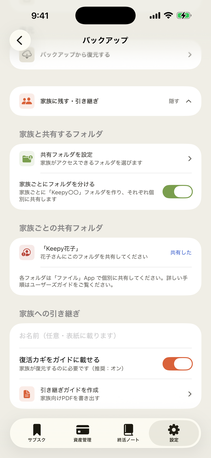
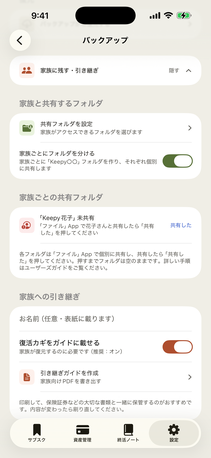
guide STEP 3 の画像を撮り直す（家族ごとの共有フォルダの行＝「未共有」＋「共有した」・2026-09-09 の文言）
原本＝~/Desktop/Keepy/site_screenshots_2026-09-09/raw_step3_share.png（1320×2868・COMMIT.txt に撮影条件）。
シミュレータ iPhone 17 Pro Max・ライト・status_bar 9:41・-uiTestSeed -uiTestPremium -uiTestPerMemberFolders。
?v=3・alt を写っている画面に合わせた。make_sizes --check 通過。

diff --git a/guide.html b/guide.html
@@ -221,7 +221,7 @@
             </p>
           </div>
         </div>
-        <div class="phone"><img srcset="img/guide/step3_share-211.png?v=2 211w, img/guide/step3_share-422.png?v=2 422w, img/guide/step3_share.png?v=2 750w" sizes="(max-width: 620px) 186px, 211px" src="img/guide/step3_share.png?v=2" width="750" height="1629" loading="lazy" alt="家族ごとの共有フォルダに「Keepy花子」が作られ、「共有した」ボタンで共有状況を記録できる"></div>
+        <div class="phone"><img srcset="img/guide/step3_share-211.png?v=3 211w, img/guide/step3_share-422.png?v=3 422w, img/guide/step3_share.png?v=3 750w" sizes="(max-width: 620px) 186px, 211px" src="img/guide/step3_share.png?v=3" width="750" height="1629" loading="lazy" alt="バックアップ画面の「家族ごとの共有フォルダ」。「Keepy花子」が未共有と表示され、「ファイル」App で共有したら「共有した」を押す"></div>
       </div>
       <div class="step-card tint-terra flip">
         <span class="step-watermark" aria-hidden="true">4</span>
